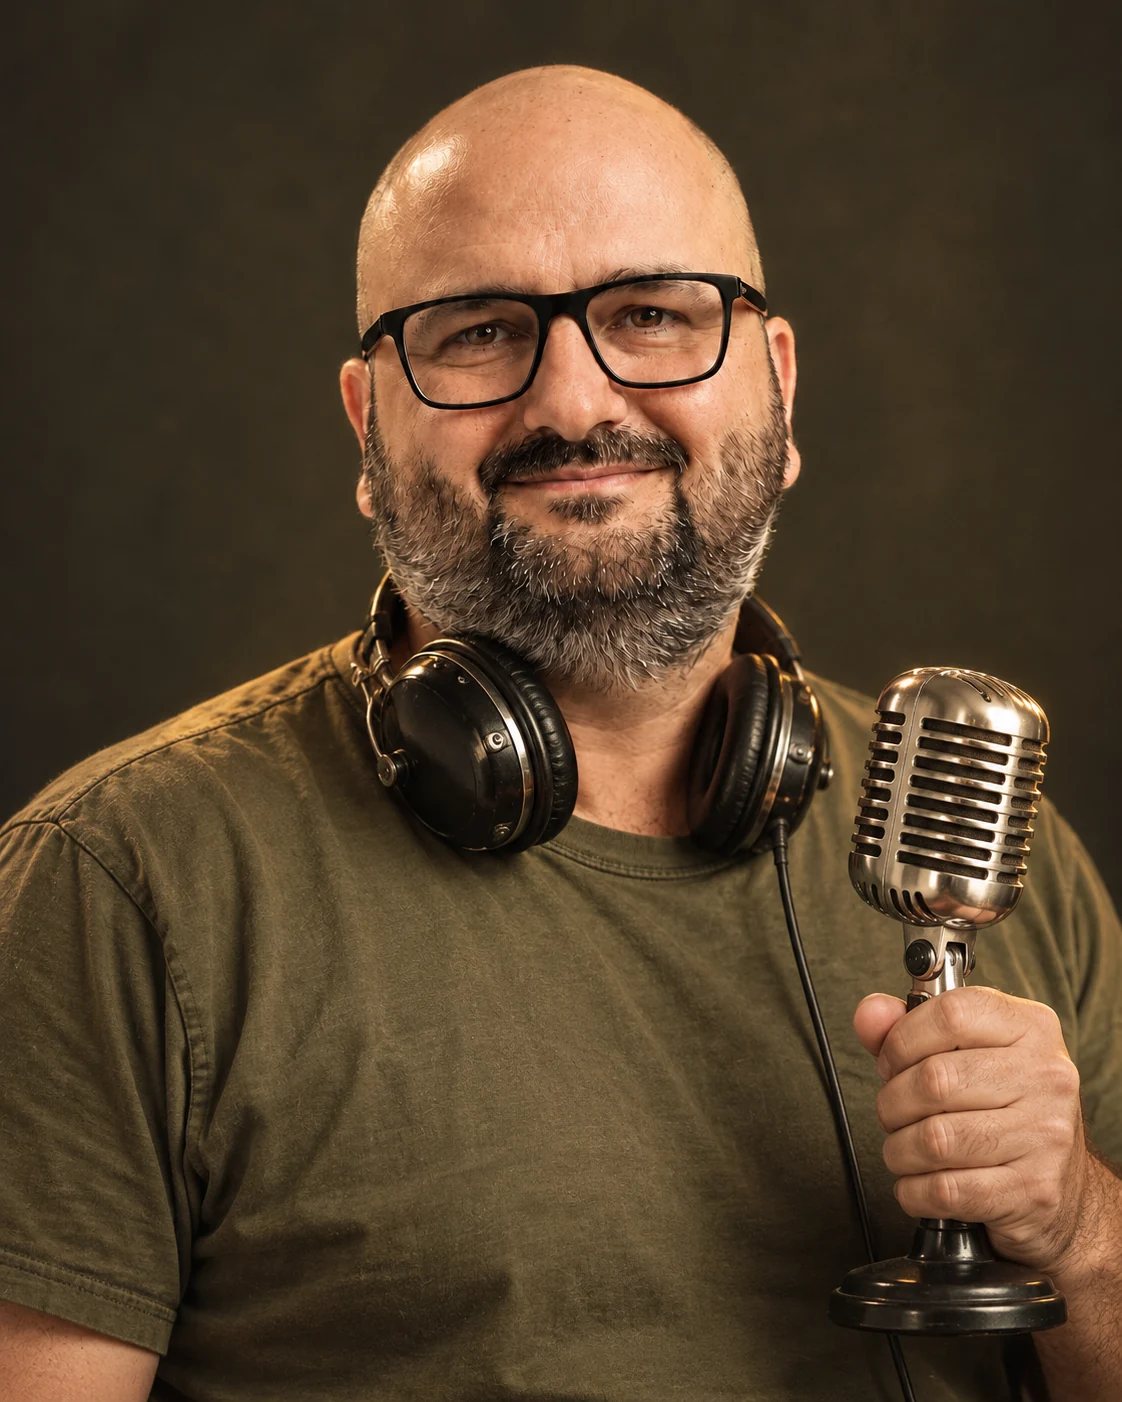
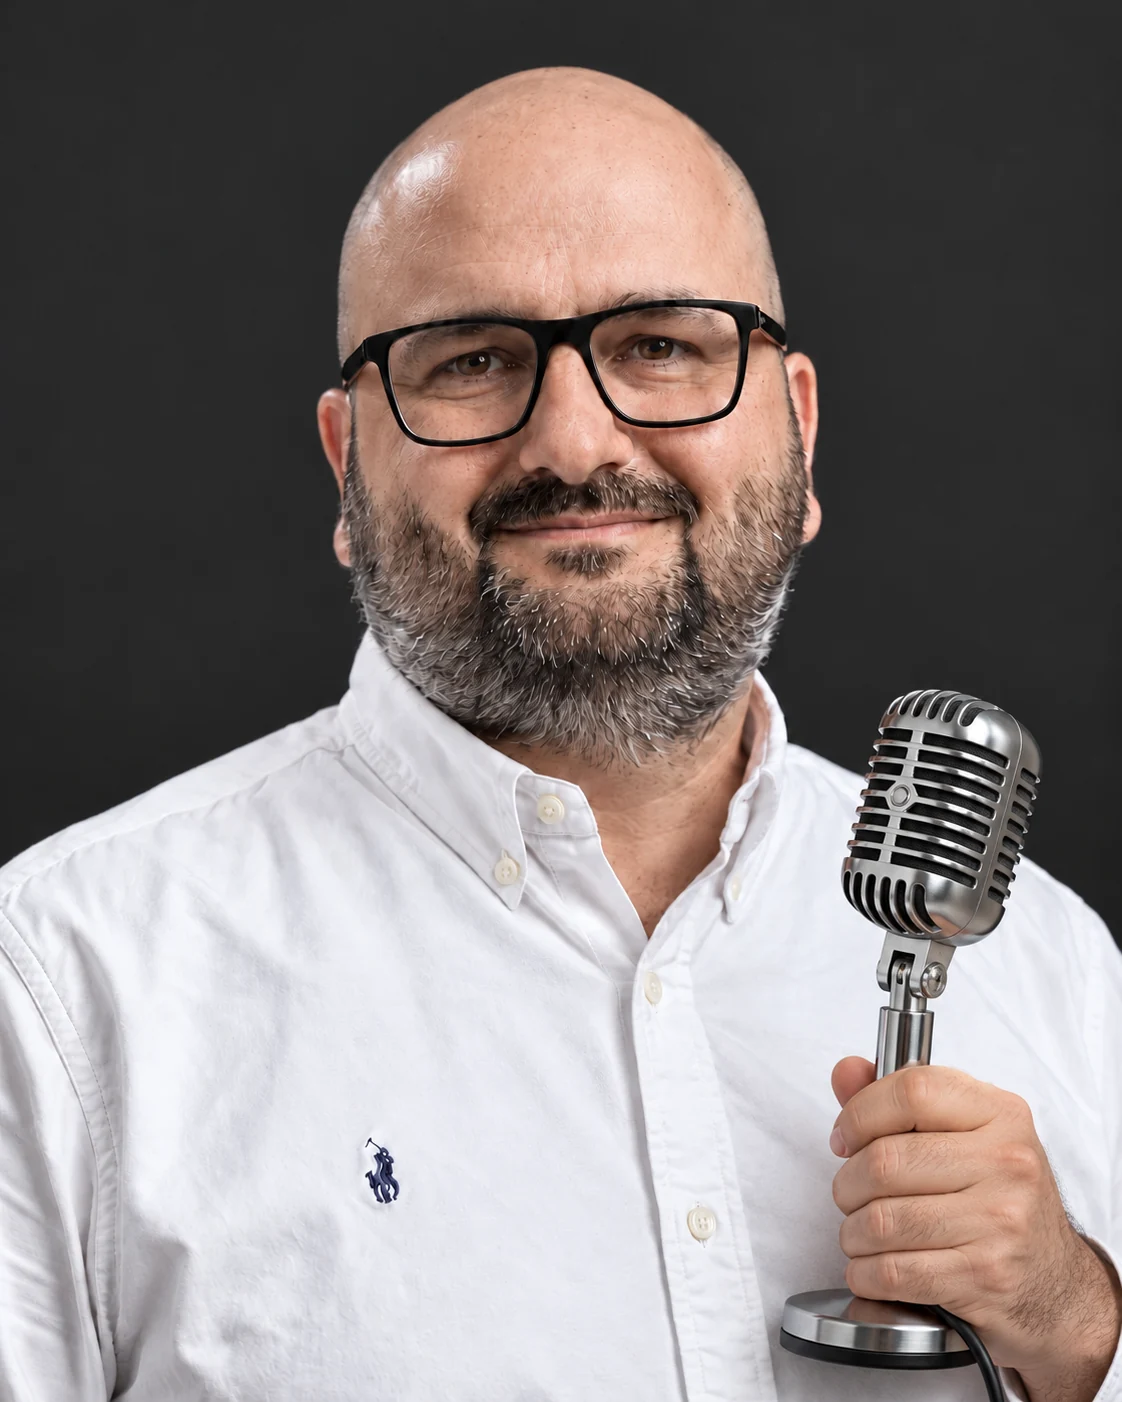
Keep original shirt in Vietnam portrait and add the morning greeting

diff --git a/assets/app.js b/assets/app.js
@@ -117,6 +117,9 @@ document.querySelectorAll('.carousel').forEach(carousel => {
   const portrait = document.querySelector('.portrait-photo');
   const originalPortrait = portrait?.getAttribute('src');
   const originalAlt = portrait?.getAttribute('alt');
+  const headline = document.getElementById('hello-title');
+  const originalHeadline = headline?.textContent;
+  const originalHeadlineLanguage = headline?.getAttribute('lang');
   const portraitURL = file => originalPortrait && new URL(file, new URL(originalPortrait, document.baseURI)).href;
   const themeMeta = document.querySelector('meta[name="theme-color"]');
   const originalThemeColor = themeMeta?.getAttribute('content');
@@ -156,17 +159,18 @@ document.querySelectorAll('.carousel').forEach(carousel => {
       }
     },
     vietnam: {
-      portrait: 'paulo-portrait-vietnam.webp',
+      portrait: 'paulo-portrait-vietnam.webp?v=5895a8439be6',
       colour: '#283222',
+      headline: 'GOOOOD MOOORNING…',
       notice: {
         pt: 'Good Morning, Vietnam! Digite vietnam novamente ou pressione Esc para voltar.',
         it: 'Good Morning, Vietnam! Digita di nuovo vietnam o premi Esc per tornare al tema originale.',
         en: 'Good Morning, Vietnam! Type vietnam again or press Esc to reset.'
       },
       alt: {
-        pt: 'Paulo Sanches com microfone de rádio retrô e headphones, vestindo verde-oliva',
-        it: 'Paulo Sanches con un microfono radiofonico vintage, cuffie e una maglia verde oliva',
-        en: 'Paulo Sanches with a vintage radio microphone, headphones and an olive-green shirt'
+        pt: 'Paulo Sanches com sua camisa branca, segurando um microfone de rádio retrô',
+        it: 'Paulo Sanches con la sua camicia bianca, mentre tiene un microfono radiofonico vintage',
+        en: 'Paulo Sanches in his white shirt, holding a vintage radio microphone'
       }
     }
   };
@@ -200,6 +204,12 @@ document.querySelectorAll('.carousel').forEach(carousel => {
     if (portrait) {
       portrait.src = theme ? portraitURL(theme.portrait) : originalPortrait;
       portrait.alt = theme ? theme.alt[locale] : originalAlt;
+    }
+    if (headline) {
+      headline.textContent = theme?.headline ?? originalHeadline;
+      if (theme?.headline) headline.lang = 'en';
+      else if (originalHeadlineLanguage) headline.lang = originalHeadlineLanguage;
+      else headline.removeAttribute('lang');
     }
     if (themeMeta) themeMeta.content = theme ? theme.colour : originalThemeColor;
     try {

diff --git a/it/index.html b/it/index.html
@@ -151,8 +151,8 @@
   }
   </script>
   <link rel="icon" href="../assets/favicon.svg" type="image/svg+xml">
-  <link rel="stylesheet" href="../assets/style.css?v=3ea4e5fbd0ce">
-  <script src="../assets/app.js?v=0242f0dd0347" defer></script>
+  <link rel="stylesheet" href="../assets/style.css?v=3f73b90349e1">
+  <script src="../assets/app.js?v=d5721db6152b" defer></script>
 </head>
 <body>
 <svg class="visual-library" xmlns="http://www.w3.org/2000/svg" aria-hidden="true" focusable="false" width="0" height="0">

diff --git a/pt/index.html b/pt/index.html
@@ -151,8 +151,8 @@
   }
   </script>
   <link rel="icon" href="../assets/favicon.svg" type="image/svg+xml">
-  <link rel="stylesheet" href="../assets/style.css?v=3ea4e5fbd0ce">
-  <script src="../assets/app.js?v=0242f0dd0347" defer></script>
+  <link rel="stylesheet" href="../assets/style.css?v=3f73b90349e1">
+  <script src="../assets/app.js?v=d5721db6152b" defer></script>
 </head>
 <body>
 <svg class="visual-library" xmlns="http://www.w3.org/2000/svg" aria-hidden="true" focusable="false" width="0" height="0">

diff --git a/pt/field-notes/banking-handover-in-brasilia/index.html b/pt/field-notes/banking-handover-in-brasilia/index.html
@@ -161,8 +161,8 @@
   }
   </script>
   <link rel="icon" href="../../../assets/favicon.svg" type="image/svg+xml">
-  <link rel="stylesheet" href="../../../assets/style.css?v=3ea4e5fbd0ce">
-  <script src="../../../assets/app.js?v=0242f0dd0347" defer></script>
+  <link rel="stylesheet" href="../../../assets/style.css?v=3f73b90349e1">
+  <script src="../../../assets/app.js?v=d5721db6152b" defer></script>
 </head>
 <body class="story-page">
   <a class="skip-link" href="#story-main">Ir para a história</a>

diff --git a/pt/field-notes/security-at-the-beach/index.html b/pt/field-notes/security-at-the-beach/index.html
@@ -161,8 +161,8 @@
   }
   </script>
   <link rel="icon" href="../../../assets/favicon.svg" type="image/svg+xml">
-  <link rel="stylesheet" href="../../../assets/style.css?v=3ea4e5fbd0ce">
-  <script src="../../../assets/app.js?v=0242f0dd0347" defer></script>
+  <link rel="stylesheet" href="../../../assets/style.css?v=3f73b90349e1">
+  <script src="../../../assets/app.js?v=d5721db6152b" defer></script>
 </head>
 <body class="story-page">
   <a class="skip-link" href="#story-main">Ir para a história</a>

diff --git a/pt/field-notes/supporting-families-after-brumadinho/index.html b/pt/field-notes/supporting-families-after-brumadinho/index.html
@@ -161,8 +161,8 @@
   }
   </script>
   <link rel="icon" href="../../../assets/favicon.svg" type="image/svg+xml">
-  <link rel="stylesheet" href="../../../assets/style.css?v=3ea4e5fbd0ce">
-  <script src="../../../assets/app.js?v=0242f0dd0347" defer></script>
+  <link rel="stylesheet" href="../../../assets/style.css?v=3f73b90349e1">
+  <script src="../../../assets/app.js?v=d5721db6152b" defer></script>
 </head>
 <body class="story-page">
   <a class="skip-link" href="#story-main">Ir para a história</a>

diff --git a/it/field-notes/banking-handover-in-brasilia/index.html b/it/field-notes/banking-handover-in-brasilia/index.html
@@ -161,8 +161,8 @@
   }
   </script>
   <link rel="icon" href="../../../assets/favicon.svg" type="image/svg+xml">
-  <link rel="stylesheet" href="../../../assets/style.css?v=3ea4e5fbd0ce">
-  <script src="../../../assets/app.js?v=0242f0dd0347" defer></script>
+  <link rel="stylesheet" href="../../../assets/style.css?v=3f73b90349e1">
+  <script src="../../../assets/app.js?v=d5721db6152b" defer></script>
 </head>
 <body class="story-page">
   <a class="skip-link" href="#story-main">Vai al racconto</a>

diff --git a/it/field-notes/security-at-the-beach/index.html b/it/field-notes/security-at-the-beach/index.html
@@ -161,8 +161,8 @@
   }
   </script>
   <link rel="icon" href="../../../assets/favicon.svg" type="image/svg+xml">
-  <link rel="stylesheet" href="../../../assets/style.css?v=3ea4e5fbd0ce">
-  <script src="../../../assets/app.js?v=0242f0dd0347" defer></script>
+  <link rel="stylesheet" href="../../../assets/style.css?v=3f73b90349e1">
+  <script src="../../../assets/app.js?v=d5721db6152b" defer></script>
 </head>
 <body class="story-page">
   <a class="skip-link" href="#story-main">Vai al racconto</a>

diff --git a/it/field-notes/supporting-families-after-brumadinho/index.html b/it/field-notes/supporting-families-after-brumadinho/index.html
@@ -161,8 +161,8 @@
   }
   </script>
   <link rel="icon" href="../../../assets/favicon.svg" type="image/svg+xml">
-  <link rel="stylesheet" href="../../../assets/style.css?v=3ea4e5fbd0ce">
-  <script src="../../../assets/app.js?v=0242f0dd0347" defer></script>
+  <link rel="stylesheet" href="../../../assets/style.css?v=3f73b90349e1">
+  <script src="../../../assets/app.js?v=d5721db6152b" defer></script>
 </head>
 <body class="story-page">
   <a class="skip-link" href="#story-main">Vai al racconto</a>

diff --git a/index.html b/index.html
@@ -100,8 +100,8 @@
   }
   </script>
   <link rel="icon" href="assets/favicon.svg" type="image/svg+xml">
-  <link rel="stylesheet" href="assets/style.css?v=3ea4e5fbd0ce">
-  <script src="assets/app.js?v=0242f0dd0347" defer></script>
+  <link rel="stylesheet" href="assets/style.css?v=3f73b90349e1">
+  <script src="assets/app.js?v=d5721db6152b" defer></script>
 </head>
 <body>
 <svg class="visual-library" xmlns="http://www.w3.org/2000/svg" aria-hidden="true" focusable="false" width="0" height="0">

diff --git a/field-notes/banking-handover-in-brasilia/index.html b/field-notes/banking-handover-in-brasilia/index.html
@@ -161,8 +161,8 @@
   }
   </script>
   <link rel="icon" href="../../assets/favicon.svg" type="image/svg+xml">
-  <link rel="stylesheet" href="../../assets/style.css?v=3ea4e5fbd0ce">
-  <script src="../../assets/app.js?v=0242f0dd0347" defer></script>
+  <link rel="stylesheet" href="../../assets/style.css?v=3f73b90349e1">
+  <script src="../../assets/app.js?v=d5721db6152b" defer></script>
 </head>
 <body class="story-page">
   <a class="skip-link" href="#story-main">Skip to the story</a>

diff --git a/field-notes/security-at-the-beach/index.html b/field-notes/security-at-the-beach/index.html
@@ -115,8 +115,8 @@
   }
   </script>
   <link rel="icon" href="../../assets/favicon.svg" type="image/svg+xml">
-  <link rel="stylesheet" href="../../assets/style.css?v=3ea4e5fbd0ce">
-  <script src="../../assets/app.js?v=0242f0dd0347" defer></script>
+  <link rel="stylesheet" href="../../assets/style.css?v=3f73b90349e1">
+  <script src="../../assets/app.js?v=d5721db6152b" defer></script>
 </head>
 <body class="story-page">
   <a class="skip-link" href="#story-main">Skip to the story</a>
